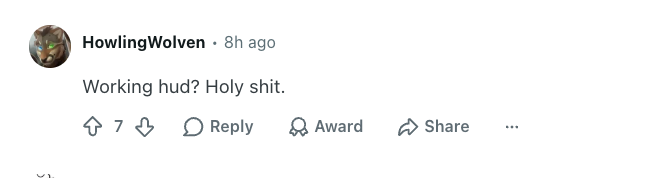
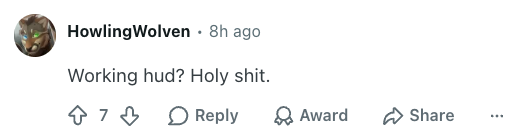
Crop top two comment screenshots tighter
Claude-Session: https://claude.ai/code/session_01FR5gMPKARfAokiHSjYh5o9

diff --git a/index.html b/index.html
@@ -146,7 +146,7 @@
   .quote img{display:block;width:100%;height:auto;background:#fff;border-radius:14px;padding:8px 10px;border:1px solid var(--line);box-shadow:0 10px 30px rgba(0,0,0,.35)}
   .quote-src{order:-1;margin-bottom:8px;font-family:"IBM Plex Mono",monospace;font-size:11.5px;letter-spacing:1.5px;text-transform:uppercase;color:var(--green)}
   .quote figcaption{margin-top:8px;font-size:14px;color:var(--text);line-height:1.45}
-  @media (min-width:761px){.quotes{grid-template-columns:1fr 1fr;gap:22px 18px;align-items:stretch}.quote img{flex:1;object-fit:contain;padding:12px 14px}.quote figcaption{display:none}}
+  @media (min-width:761px){.quotes{grid-template-columns:1fr 1fr;gap:22px 18px;align-items:start}.quote img{width:auto;max-width:100%;padding:12px 14px}.quote figcaption{display:none}}
   /* ── trust line under Reserve ─────────────── */
   .trust-line{margin-top:12px;font-size:13.5px;line-height:1.5;color:var(--text)}
   .full-img{width:100%;height:min(58vh,520px);object-fit:cover;border-radius:12px;display:block}
@@ -272,8 +272,8 @@
     <div class="kicker">Reception</div>
     <h2>People are noticing.</h2>
     <div class="quotes" role="list">
-      <figure class="quote" role="listitem"><img src="assets/comments/comment-1-howlingwolven-reddit.png" width="660" height="178" loading="lazy" alt="Reddit r/rcplanes comment by HowlingWolven: &quot;Working hud? Holy shit.&quot;"><span class="quote-src">Reddit · r/rcplanes</span><figcaption aria-hidden="true">“Working hud? Holy shit.” — HowlingWolven</figcaption></figure>
-      <figure class="quote" role="listitem"><img src="assets/comments/comment-2-erde555-reddit.png" width="688" height="114" loading="lazy" alt="Reddit r/fpv comment by Erde555: &quot;imagine attaching this in front of the fpv camera on a drone 🤯&quot;"><span class="quote-src">Reddit · r/fpv</span><figcaption aria-hidden="true">“imagine attaching this in front of the fpv camera on a drone 🤯” — Erde555</figcaption></figure>
+      <figure class="quote" role="listitem"><img src="assets/comments/comment-1-howlingwolven-reddit.png" width="517" height="139" loading="lazy" alt="Reddit r/rcplanes comment by HowlingWolven: &quot;Working hud? Holy shit.&quot;"><span class="quote-src">Reddit · r/rcplanes</span><figcaption aria-hidden="true">“Working hud? Holy shit.” — HowlingWolven</figcaption></figure>
+      <figure class="quote" role="listitem"><img src="assets/comments/comment-2-erde555-reddit.png" width="611" height="103" loading="lazy" alt="Reddit r/fpv comment by Erde555: &quot;imagine attaching this in front of the fpv camera on a drone 🤯&quot;"><span class="quote-src">Reddit · r/fpv</span><figcaption aria-hidden="true">“imagine attaching this in front of the fpv camera on a drone 🤯” — Erde555</figcaption></figure>
       <figure class="quote" role="listitem"><img src="assets/comments/comment-3-iamelectrichead-reddit.png" width="678" height="98" loading="lazy" alt="Reddit r/rcplanes comment by IAmElectricHead: &quot;Beautifully done.&quot;"><span class="quote-src">Reddit · r/rcplanes</span><figcaption aria-hidden="true">“Beautifully done.” — IAmElectricHead</figcaption></figure>
       <figure class="quote" role="listitem"><img src="assets/comments/comment-4-slimez-tiktok.png" width="918" height="126" loading="lazy" alt="TikTok comment by Slimez Fishing: &quot;bro, this is so fucking cool, I hope you get your bag for this&quot;"><span class="quote-src">TikTok</span><figcaption aria-hidden="true">“bro, this is so fucking cool, I hope you get your bag for this” — Slimez Fishing</figcaption></figure>
     </div>
